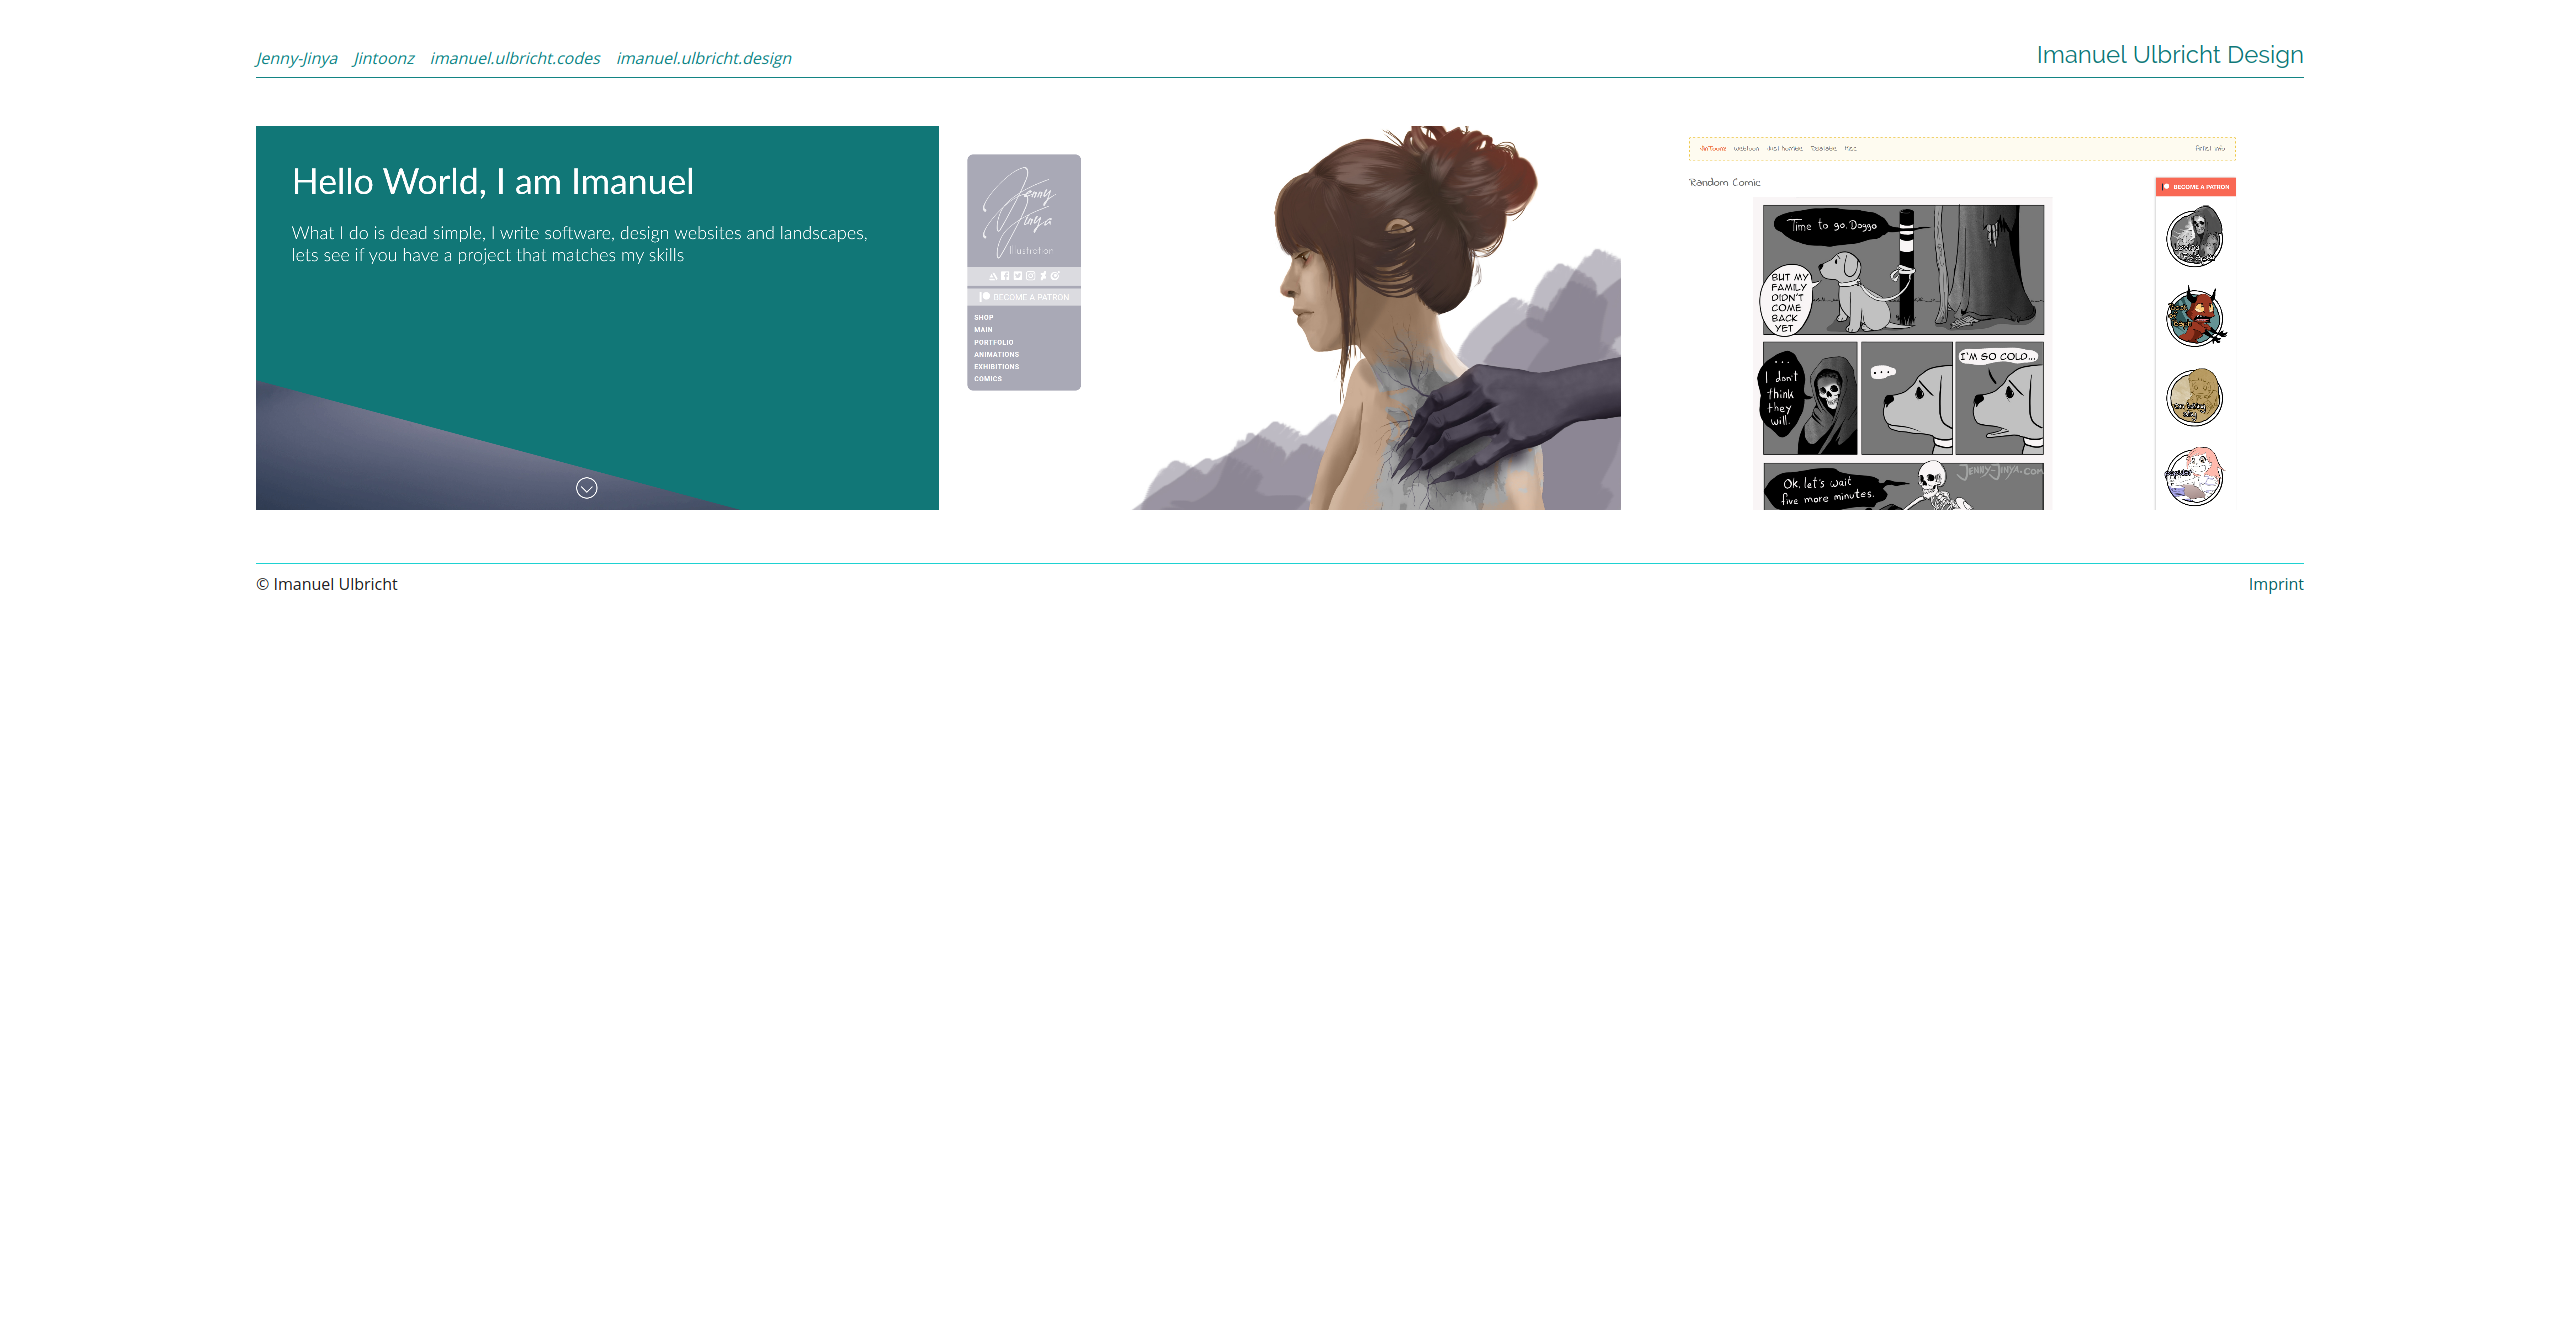
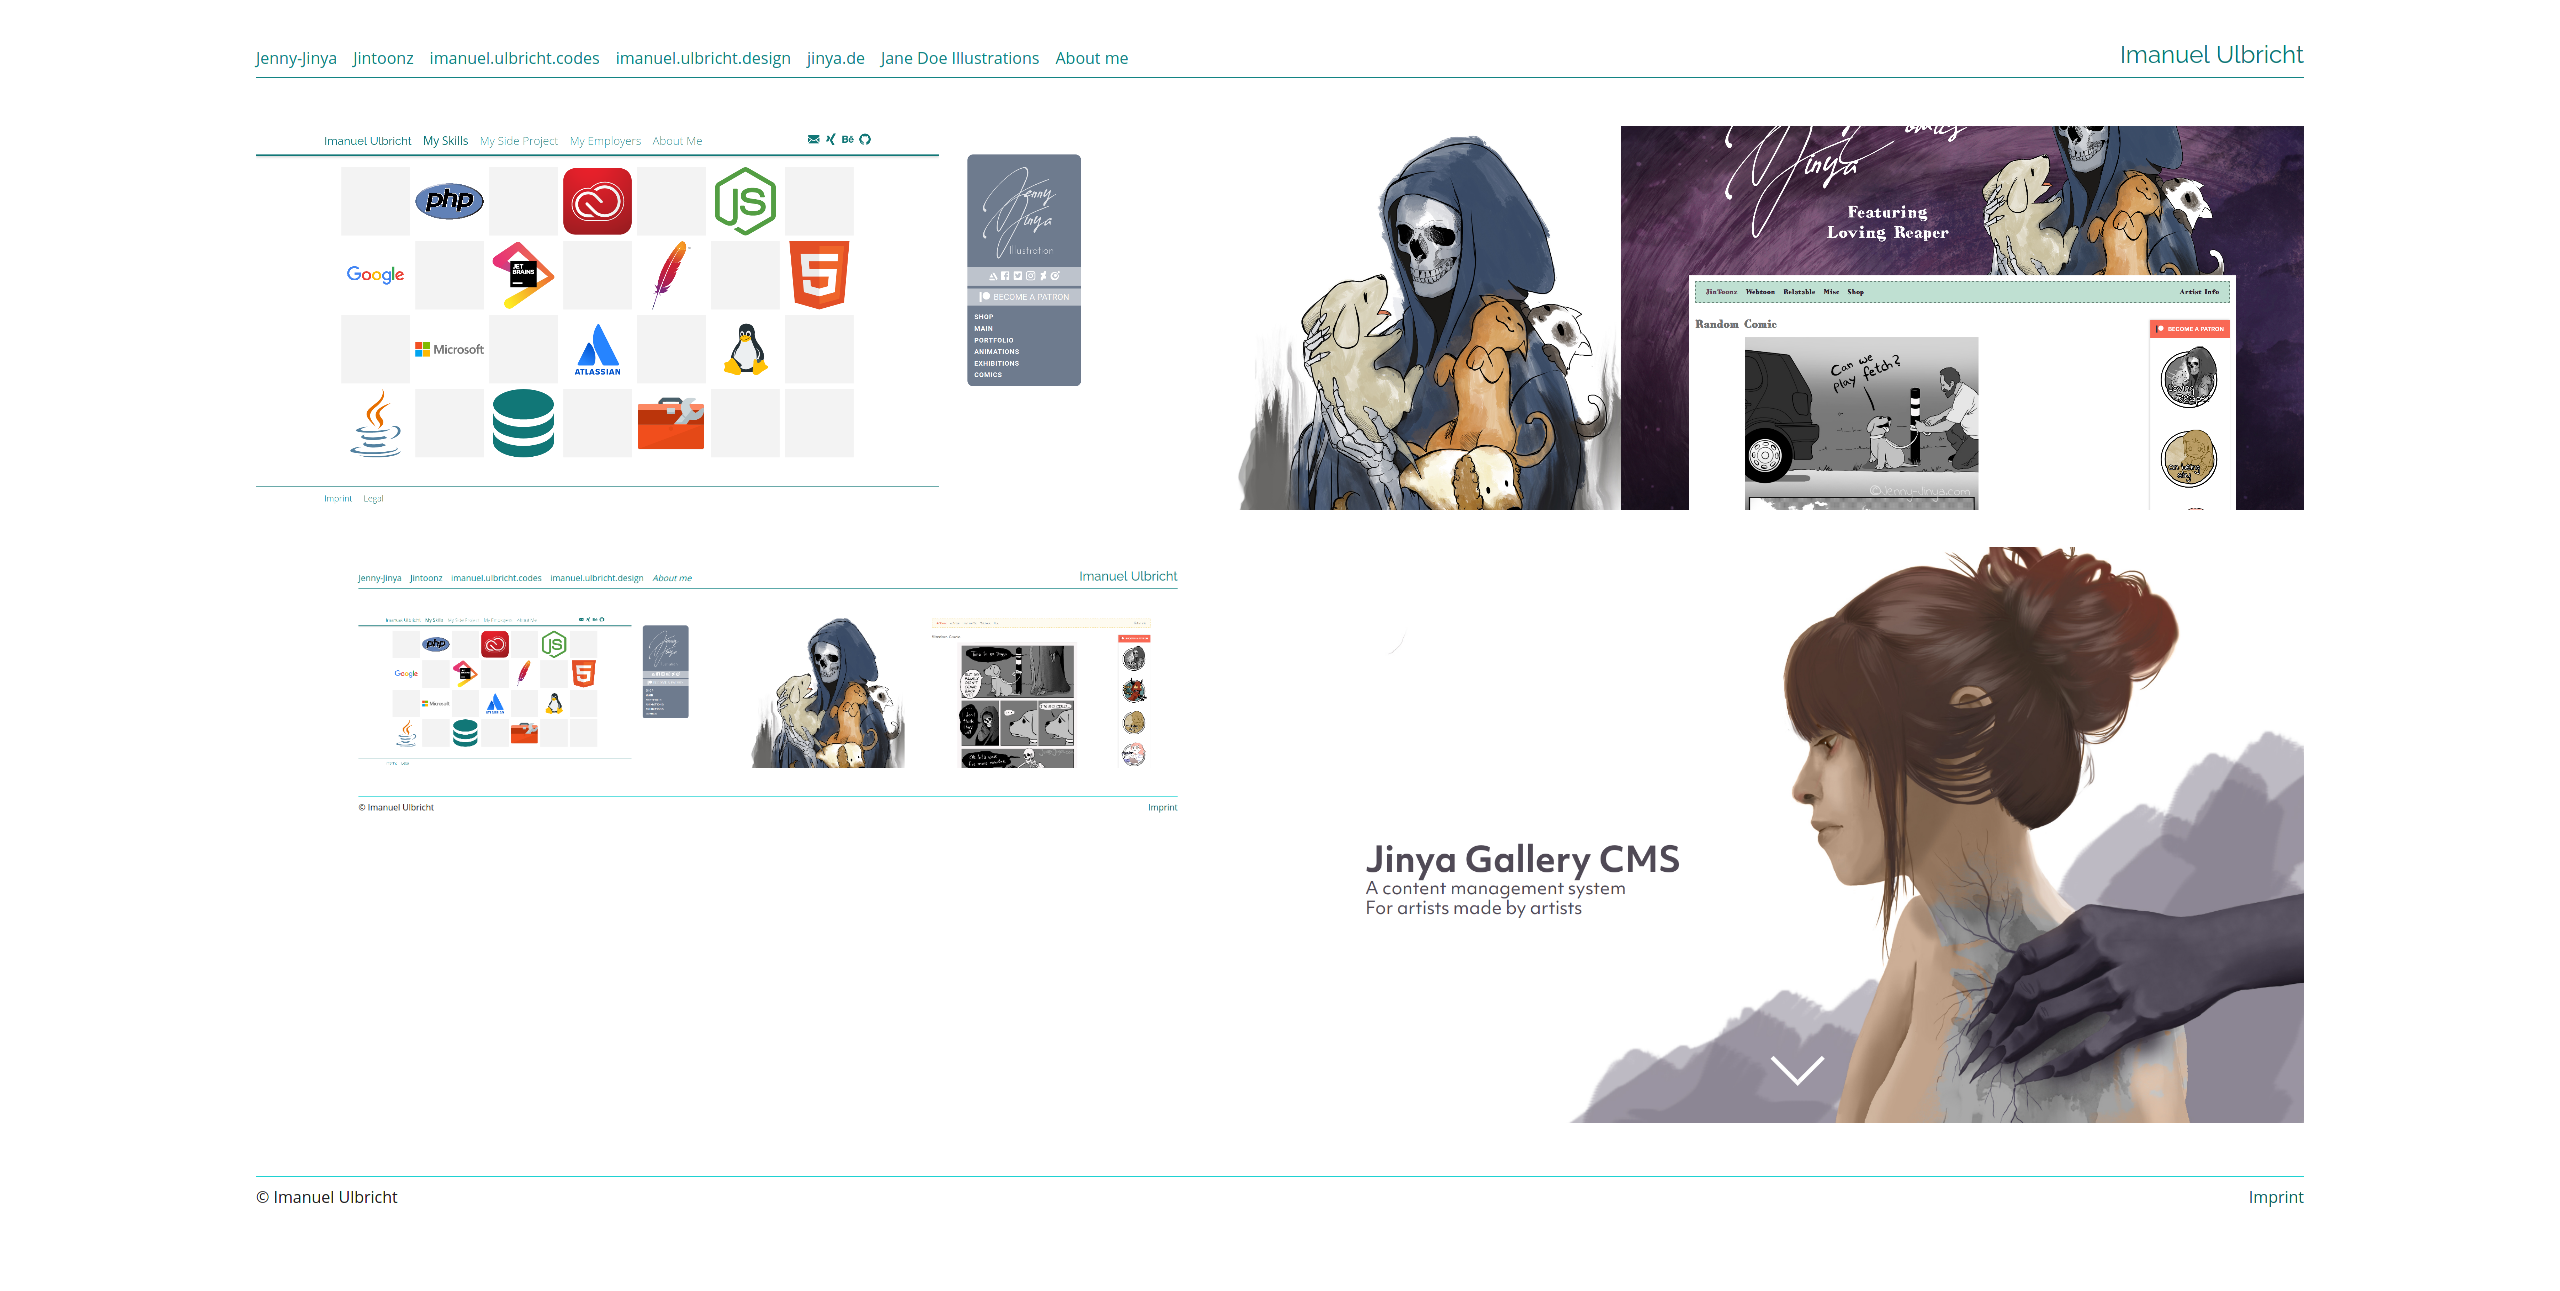
Updated texts and images

diff --git a/pages/index.js b/pages/index.js
@@ -75,14 +75,14 @@ const Home = () => {
             </div>
             <div className="jinya-sites__list-item jinya-sites__list-item--right">
               <div className="jinya-sites__content jinya-sites__content--left">
-                <h3 className="jinya-sites__site-header">Jintoonz</h3>
+                <h3 className="jinya-sites__site-header">Loving Reaper</h3>
                 <p className="jinya-sites__site-content">
-                  Jintoonz is the website of the artist Jenny-Jinya. She is the creator of the famous loving reaper
+                  Jintoonz is the website of the artist Jenny-Jinya. She is the creator of the famous Loving Reaper
                   comic series. She trusts <i>Jinya</i> to give people the perfect view on her comics.
                 </p>
-                <a className="jinya-sites__site-link" href="https://comics.jenny-jinya.com">Go to Jintoonz</a>
+                <a className="jinya-sites__site-link" href="https://lovingreaper.com">Go to Loving Reaper</a>
               </div>
-              <img className="jinya-sites__image jinya-sites__image--right" src="/jintoonz.png" alt="" />
+              <img className="jinya-sites__image jinya-sites__image--right" src="/lovingreaper.com.png" alt="" />
             </div>
             <div className="jinya-sites__list-item jinya-sites__list-item--left">
               <img className="jinya-sites__image jinya-sites__image--left" src="/imanuel.ulbricht.design.png" alt="" />
